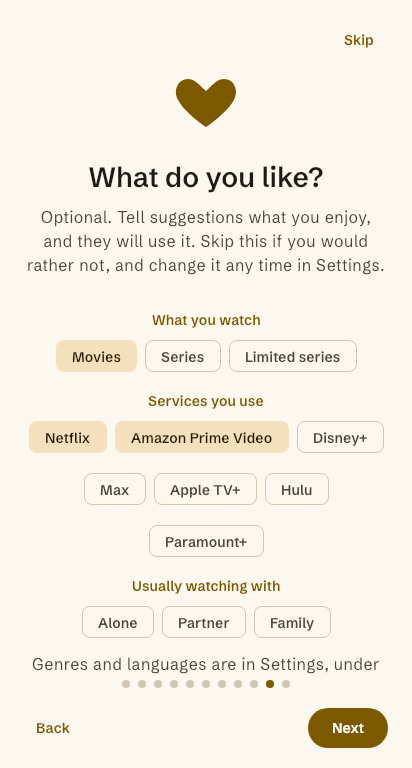
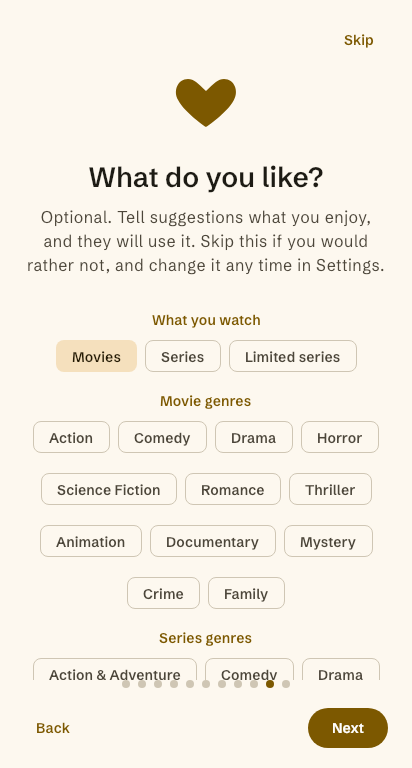
feat(onboarding): offer bundled movie and TV genres on the Taste page (#937)
The first-run Taste page offered formats, services and company, and left
genres to Settings, because TMDB's catalogue needs a connection. The page
now offers twelve movie and twelve TV genres from a fixed set of TMDB ids,
so it works on a first launch that is offline (#807).

The chips write through TasteProfileApi.setLiked, the same path Settings >
Your taste uses, and the stored item is built as TasteRules.genreItem builds
it, so a like from either place is one row. The TV set leaves out the four
genres the Muted Genres page can mute (ADR 0031), so a page chip is never a
genre that could not be liked. Names are localized in en and es; the stored
label is TMDB's English name.

diff --git a/feature/onboarding/ui/src/commonMain/kotlin/com/codingpit/muviss/feature/onboarding/ui/OnboardingScreen.kt b/feature/onboarding/ui/src/commonMain/kotlin/com/codingpit/muviss/feature/onboarding/ui/OnboardingScreen.kt
@@ -95,8 +95,34 @@ import com.codingpit.muviss.feature.onboarding.ui.generated.resources.onboarding
 import com.codingpit.muviss.feature.onboarding.ui.generated.resources.onboarding_taste_format_series
 import com.codingpit.muviss.feature.onboarding.ui.generated.resources.onboarding_taste_formats
 import com.codingpit.muviss.feature.onboarding.ui.generated.resources.onboarding_taste_more
+import com.codingpit.muviss.feature.onboarding.ui.generated.resources.onboarding_taste_movie_genre_10749
+import com.codingpit.muviss.feature.onboarding.ui.generated.resources.onboarding_taste_movie_genre_10751
+import com.codingpit.muviss.feature.onboarding.ui.generated.resources.onboarding_taste_movie_genre_16
+import com.codingpit.muviss.feature.onboarding.ui.generated.resources.onboarding_taste_movie_genre_18
+import com.codingpit.muviss.feature.onboarding.ui.generated.resources.onboarding_taste_movie_genre_27
+import com.codingpit.muviss.feature.onboarding.ui.generated.resources.onboarding_taste_movie_genre_28
+import com.codingpit.muviss.feature.onboarding.ui.generated.resources.onboarding_taste_movie_genre_35
+import com.codingpit.muviss.feature.onboarding.ui.generated.resources.onboarding_taste_movie_genre_53
+import com.codingpit.muviss.feature.onboarding.ui.generated.resources.onboarding_taste_movie_genre_80
+import com.codingpit.muviss.feature.onboarding.ui.generated.resources.onboarding_taste_movie_genre_878
+import com.codingpit.muviss.feature.onboarding.ui.generated.resources.onboarding_taste_movie_genre_9648
+import com.codingpit.muviss.feature.onboarding.ui.generated.resources.onboarding_taste_movie_genre_99
+import com.codingpit.muviss.feature.onboarding.ui.generated.resources.onboarding_taste_movie_genres
 import com.codingpit.muviss.feature.onboarding.ui.generated.resources.onboarding_taste_services
 import com.codingpit.muviss.feature.onboarding.ui.generated.resources.onboarding_taste_title
+import com.codingpit.muviss.feature.onboarding.ui.generated.resources.onboarding_taste_tv_genre_10751
+import com.codingpit.muviss.feature.onboarding.ui.generated.resources.onboarding_taste_tv_genre_10759
+import com.codingpit.muviss.feature.onboarding.ui.generated.resources.onboarding_taste_tv_genre_10762
+import com.codingpit.muviss.feature.onboarding.ui.generated.resources.onboarding_taste_tv_genre_10765
+import com.codingpit.muviss.feature.onboarding.ui.generated.resources.onboarding_taste_tv_genre_10768
+import com.codingpit.muviss.feature.onboarding.ui.generated.resources.onboarding_taste_tv_genre_16
+import com.codingpit.muviss.feature.onboarding.ui.generated.resources.onboarding_taste_tv_genre_18
+import com.codingpit.muviss.feature.onboarding.ui.generated.resources.onboarding_taste_tv_genre_35
+import com.codingpit.muviss.feature.onboarding.ui.generated.resources.onboarding_taste_tv_genre_37
+import com.codingpit.muviss.feature.onboarding.ui.generated.resources.onboarding_taste_tv_genre_80
+import com.codingpit.muviss.feature.onboarding.ui.generated.resources.onboarding_taste_tv_genre_9648
+import com.codingpit.muviss.feature.onboarding.ui.generated.resources.onboarding_taste_tv_genre_99
+import com.codingpit.muviss.feature.onboarding.ui.generated.resources.onboarding_taste_tv_genres
 import com.codingpit.muviss.feature.onboarding.ui.generated.resources.onboarding_watch_next_body
 import com.codingpit.muviss.feature.onboarding.ui.generated.resources.onboarding_watch_next_title
 import com.codingpit.muviss.feature.onboarding.ui.generated.resources.onboarding_watch_next_widget
@@ -313,6 +339,11 @@ private fun PageContent(
             val formats = TasteChoices.formats.associateWith { formatName(it) }
             val companies = TasteChoices.companies.associateWith { companyName(it) }
             TasteGroup(Res.string.onboarding_taste_formats, TasteChoices.formats, state, onTasteToggled) { formats.getValue(it) }
+            // The bundled genres (#807): offline, so the page never waits on TMDB's catalogue.
+            val movieGenres = TasteChoices.movieGenres.associateWith { genreName(it) }
+            val tvGenres = TasteChoices.tvGenres.associateWith { genreName(it) }
+            TasteGroup(Res.string.onboarding_taste_movie_genres, TasteChoices.movieGenres, state, onTasteToggled) { movieGenres.getValue(it) }
+            TasteGroup(Res.string.onboarding_taste_tv_genres, TasteChoices.tvGenres, state, onTasteToggled) { tvGenres.getValue(it) }
             TasteGroup(Res.string.onboarding_taste_services, TasteChoices.services, state, onTasteToggled) { it.label }
             TasteGroup(Res.string.onboarding_taste_company, companies.keys.toList(), state, onTasteToggled) { companies.getValue(it) }
             Spacer(Modifier.height(MuvissSpacing.s))
@@ -368,6 +399,40 @@ private fun formatName(item: TasteItem): String = stringResource(
         "LIMITED_SERIES" -> Res.string.onboarding_taste_format_limited
         else -> Res.string.onboarding_taste_format_movie
     },
+)
+
+/** The bundled genre's name, keyed by its type and TMDB id (`movie:28`, `tv:10759`), see [genreNames]. */
+@Composable
+private fun genreName(item: TasteItem): String = stringResource(
+    checkNotNull(genreNames[item.value]) { "no name for bundled genre ${item.value}" },
+)
+
+/** Each bundled genre's name, keyed by its `<movie|tv>:<tmdb id>` value, the same key a Muted Genre uses. */
+private val genreNames: Map<String, org.jetbrains.compose.resources.StringResource> = mapOf(
+    "movie:28" to Res.string.onboarding_taste_movie_genre_28,
+    "movie:35" to Res.string.onboarding_taste_movie_genre_35,
+    "movie:18" to Res.string.onboarding_taste_movie_genre_18,
+    "movie:27" to Res.string.onboarding_taste_movie_genre_27,
+    "movie:878" to Res.string.onboarding_taste_movie_genre_878,
+    "movie:10749" to Res.string.onboarding_taste_movie_genre_10749,
+    "movie:53" to Res.string.onboarding_taste_movie_genre_53,
+    "movie:16" to Res.string.onboarding_taste_movie_genre_16,
+    "movie:99" to Res.string.onboarding_taste_movie_genre_99,
+    "movie:9648" to Res.string.onboarding_taste_movie_genre_9648,
+    "movie:80" to Res.string.onboarding_taste_movie_genre_80,
+    "movie:10751" to Res.string.onboarding_taste_movie_genre_10751,
+    "tv:10759" to Res.string.onboarding_taste_tv_genre_10759,
+    "tv:35" to Res.string.onboarding_taste_tv_genre_35,
+    "tv:18" to Res.string.onboarding_taste_tv_genre_18,
+    "tv:80" to Res.string.onboarding_taste_tv_genre_80,
+    "tv:9648" to Res.string.onboarding_taste_tv_genre_9648,
+    "tv:10765" to Res.string.onboarding_taste_tv_genre_10765,
+    "tv:16" to Res.string.onboarding_taste_tv_genre_16,
+    "tv:99" to Res.string.onboarding_taste_tv_genre_99,
+    "tv:10751" to Res.string.onboarding_taste_tv_genre_10751,
+    "tv:10762" to Res.string.onboarding_taste_tv_genre_10762,
+    "tv:37" to Res.string.onboarding_taste_tv_genre_37,
+    "tv:10768" to Res.string.onboarding_taste_tv_genre_10768,
 )
 
 /** The company choices are stored as the Pick Session's enum names, so their labels are localized here. */

diff --git a/feature/onboarding/ui/src/jvmTest/kotlin/com/codingpit/muviss/feature/onboarding/ui/BundledGenreNamesTest.kt b/feature/onboarding/ui/src/jvmTest/kotlin/com/codingpit/muviss/feature/onboarding/ui/BundledGenreNamesTest.kt
@@ -1,0 +1,55 @@
+@file:OptIn(androidx.compose.ui.test.ExperimentalTestApi::class)
+
+package com.codingpit.muviss.feature.onboarding.ui
+
+import androidx.compose.material3.Text
+import androidx.compose.ui.Modifier
+import androidx.compose.ui.platform.testTag
+import androidx.compose.ui.test.assertTextEquals
+import androidx.compose.ui.test.onNodeWithTag
+import androidx.compose.ui.test.runComposeUiTest
+import com.codingpit.muviss.core.designsystem.theme.MuvissTheme
+import com.codingpit.muviss.feature.onboarding.ui.generated.resources.Res
+import com.codingpit.muviss.feature.onboarding.ui.generated.resources.onboarding_taste_movie_genre_878
+import com.codingpit.muviss.feature.onboarding.ui.generated.resources.onboarding_taste_tv_genre_10765
+import org.jetbrains.compose.resources.stringResource
+import java.util.Locale
+import kotlin.test.AfterTest
+import kotlin.test.Test
+
+/** The bundled genre names render in each language (#807). The test JVM is pinned to en-US; Spanish is set per test. */
+class BundledGenreNamesTest {
+
+    private val original = Locale.getDefault()
+
+    @AfterTest
+    fun restoreLocale() = Locale.setDefault(original)
+
+    @Test
+    fun a_bundled_genre_name_renders_in_english() = runComposeUiTest {
+        Locale.setDefault(Locale.forLanguageTag("en-US"))
+        renderProbes()
+        onNodeWithTag(MOVIE_PROBE).assertTextEquals("Science Fiction")
+        onNodeWithTag(TV_PROBE).assertTextEquals("Sci-Fi & Fantasy")
+    }
+
+    @Test
+    fun a_bundled_genre_name_renders_in_spanish() = runComposeUiTest {
+        Locale.setDefault(Locale.forLanguageTag("es-ES"))
+        renderProbes()
+        onNodeWithTag(MOVIE_PROBE).assertTextEquals("Ciencia ficción")
+        onNodeWithTag(TV_PROBE).assertTextEquals("Sci-Fi y Fantasía")
+    }
+
+    private fun androidx.compose.ui.test.ComposeUiTest.renderProbes() = setContent {
+        MuvissTheme(darkTheme = false) {
+            Text(stringResource(Res.string.onboarding_taste_movie_genre_878), modifier = Modifier.testTag(MOVIE_PROBE))
+            Text(stringResource(Res.string.onboarding_taste_tv_genre_10765), modifier = Modifier.testTag(TV_PROBE))
+        }
+    }
+
+    private companion object {
+        const val MOVIE_PROBE = "genre-name-movie-probe"
+        const val TV_PROBE = "genre-name-tv-probe"
+    }
+}

diff --git a/feature/settings/api/src/commonMain/kotlin/com/codingpit/muviss/feature/settings/api/TasteProfileApi.kt b/feature/settings/api/src/commonMain/kotlin/com/codingpit/muviss/feature/settings/api/TasteProfileApi.kt
@@ -1,6 +1,7 @@
 package com.codingpit.muviss.feature.settings.api
 
 import com.codingpit.muviss.feature.nextpick.api.PickCompany
+import com.codingpit.muviss.models.MediaType
 import kotlinx.coroutines.flow.Flow
 
 /**
@@ -45,6 +46,49 @@ object TasteChoices {
         "15" to "Hulu",
         "531" to "Paramount+",
     ).map { (id, name) -> TasteItem(TasteKind.SERVICE, id, name) }
+
+    /**
+     * The movie genres the first-run page offers offline (#807): twelve of TMDB's movie genre ids,
+     * labelled with TMDB's English name, which is what a stored genre item carries. The key is built as
+     * `TasteRules.genreItem` builds it, so a like from here and a like from Settings are the same row;
+     * `TasteProfileDomainTest` pins that round trip.
+     */
+    val movieGenres: List<TasteItem> = listOf(
+        "28" to "Action",
+        "35" to "Comedy",
+        "18" to "Drama",
+        "27" to "Horror",
+        "878" to "Science Fiction",
+        "10749" to "Romance",
+        "53" to "Thriller",
+        "16" to "Animation",
+        "99" to "Documentary",
+        "9648" to "Mystery",
+        "80" to "Crime",
+        "10751" to "Family",
+    ).map { (id, name) -> genreItem(MediaType.MOVIE, id, name) }
+
+    /**
+     * The TV genres the first-run page offers offline (#807), twelve of TMDB's TV genre ids. The four
+     * the Muted Genres page can mute (Talk, News, Reality, Soap; ADR 0031) are left out, so a muted genre
+     * is never a chip the person could not like.
+     */
+    val tvGenres: List<TasteItem> = listOf(
+        "10759" to "Action & Adventure",
+        "35" to "Comedy",
+        "18" to "Drama",
+        "80" to "Crime",
+        "9648" to "Mystery",
+        "10765" to "Sci-Fi & Fantasy",
+        "16" to "Animation",
+        "99" to "Documentary",
+        "10751" to "Family",
+        "10762" to "Kids",
+        "37" to "Western",
+        "10768" to "War & Politics",
+    ).map { (id, name) -> genreItem(MediaType.TV, id, name) }
+
+    private fun genreItem(type: MediaType, id: String, name: String): TasteItem = TasteItem(TasteKind.GENRE, "${type.wireName}:$id", name)
 
     /** Names are in each language's own script, so they need no translation. */
     val languages: List<TasteItem> = listOf(

diff --git a/feature/settings/domain/src/commonTest/kotlin/com/codingpit/muviss/feature/settings/domain/TasteProfileDomainTest.kt b/feature/settings/domain/src/commonTest/kotlin/com/codingpit/muviss/feature/settings/domain/TasteProfileDomainTest.kt
@@ -1,5 +1,6 @@
 package com.codingpit.muviss.feature.settings.domain
 
+import com.codingpit.muviss.feature.settings.api.TasteChoices
 import com.codingpit.muviss.feature.settings.api.TasteItem
 import com.codingpit.muviss.feature.settings.api.TasteKind
 import com.codingpit.muviss.models.GenreKey
@@ -33,6 +34,22 @@ class TasteProfileDomainTest {
     fun item_id_is_kind_colon_value_and_matches_the_stored_key() {
         assertEquals("GENRE:movie:28", action.id)
         assertEquals("SERVICE:8", netflix.id)
+    }
+
+    @Test
+    fun bundled_onboarding_genres_are_twelve_tmdb_ids_per_type_and_round_trip_through_taste_rules() {
+        // The same ids the Muted Genres page keys on (ADR 0031): a Taste like must be the row a Muted Genre would stand for.
+        assertEquals(12, TasteChoices.movieGenres.size)
+        assertEquals(12, TasteChoices.tvGenres.size)
+        for ((type, items) in listOf(MediaType.MOVIE to TasteChoices.movieGenres, MediaType.TV to TasteChoices.tvGenres)) {
+            for (item in items) {
+                val id = item.value.substringAfter(':')
+                assertEquals(item, TasteRules.genreItem(type, id, item.label), "${item.value} is built as Settings builds it")
+                assertEquals(GenreKey(type, id), TasteRules.genreKeyOf(item), "${item.value} parses back to its key")
+            }
+        }
+        val mutable = setOf("10763", "10764", "10766", "10767") // Talk, News, Reality, Soap: the Muted Genres page's TV choices
+        assertTrue(TasteChoices.tvGenres.none { TasteRules.genreKeyOf(it)?.id in mutable }, "a page chip is never a genre that page can mute")
     }
 
     @Test

diff --git a/feature/onboarding/ui/src/jvmTest/kotlin/com/codingpit/muviss/feature/onboarding/ui/OnboardingScreenTest.kt b/feature/onboarding/ui/src/jvmTest/kotlin/com/codingpit/muviss/feature/onboarding/ui/OnboardingScreenTest.kt
@@ -187,6 +187,24 @@ class OnboardingScreenTest {
         assertEquals(listOf(netflix to true), taste.writes)
     }
 
+    @Test
+    fun the_taste_page_offers_the_bundled_genres_offline_and_a_tap_writes_one() = runComposeUiTest {
+        // No genre catalogue is wired into the page at all, so nothing here waits on the network (#807).
+        screen()
+        val pages = pagesFor(canNotify = true, byokOffered = true, canBackUp = true)
+        repeat(pages.indexOf(OnboardingPage.TASTE)) { onNodeWithTag(ONBOARDING_NEXT_TAG).performClick() }
+
+        val film = TasteChoices.movieGenres.first { it.value == "movie:28" }
+        val series = TasteChoices.tvGenres.first { it.value == "tv:10759" }
+        onNodeWithTag(onboardingTasteTag(film)).performScrollTo().assertIsNotSelected()
+        onNodeWithTag(onboardingTasteTag(series)).performScrollTo().assertIsNotSelected()
+
+        onNodeWithTag(onboardingTasteTag(series)).performClick()
+
+        onNodeWithTag(onboardingTasteTag(series)).assertIsSelected()
+        assertEquals(listOf(series to true), taste.writes)
+    }
+
     private companion object {
         const val MAX_PAGES = 12
     }

diff --git a/feature/onboarding/ui/src/commonTest/kotlin/com/codingpit/muviss/feature/onboarding/ui/OnboardingViewModelTest.kt b/feature/onboarding/ui/src/commonTest/kotlin/com/codingpit/muviss/feature/onboarding/ui/OnboardingViewModelTest.kt
@@ -142,6 +142,20 @@ class OnboardingViewModelTest {
     }
 
     @Test
+    fun a_bundled_genre_chip_is_written_as_the_same_taste_item_settings_writes() = runTest {
+        val vm = viewModel()
+        val drama = TasteChoices.tvGenres.first { it.value == "tv:18" }
+        val film = TasteChoices.movieGenres.first { it.value == "movie:28" }
+
+        vm.onTasteToggled(drama, liked = true)
+        vm.onTasteToggled(film, liked = true)
+
+        assertEquals(listOf(drama to true, film to true), taste.writes, "no catalogue is needed: the chips write straight away")
+        assertEquals("GENRE:tv:18", drama.id)
+        assertTrue(drama.id in vm.state.value.likedTaste)
+    }
+
+    @Test
     fun finishing_waits_for_a_taste_chip_still_being_written() = runTest {
         val vm = viewModel()
         val gate = CompletableDeferred<Unit>()
